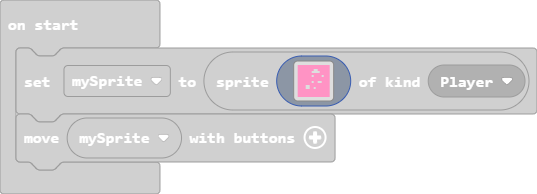
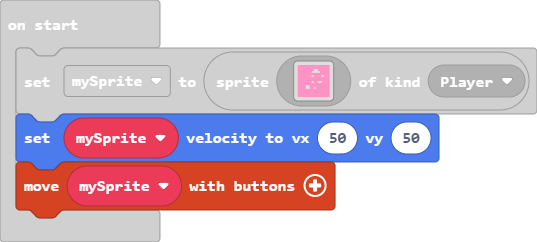
I did stuff

diff --git a/main.ts b/main.ts
@@ -16,4 +16,5 @@ let mySprite = sprites.create(img`
     3 3 3 3 3 3 3 3 3 3 3 3 3 3 3 3 
     3 3 3 3 3 3 3 3 3 3 3 3 3 3 3 3 
     `, SpriteKind.Player)
+mySprite.setVelocity(50, 50)
 controller.moveSprite(mySprite)
